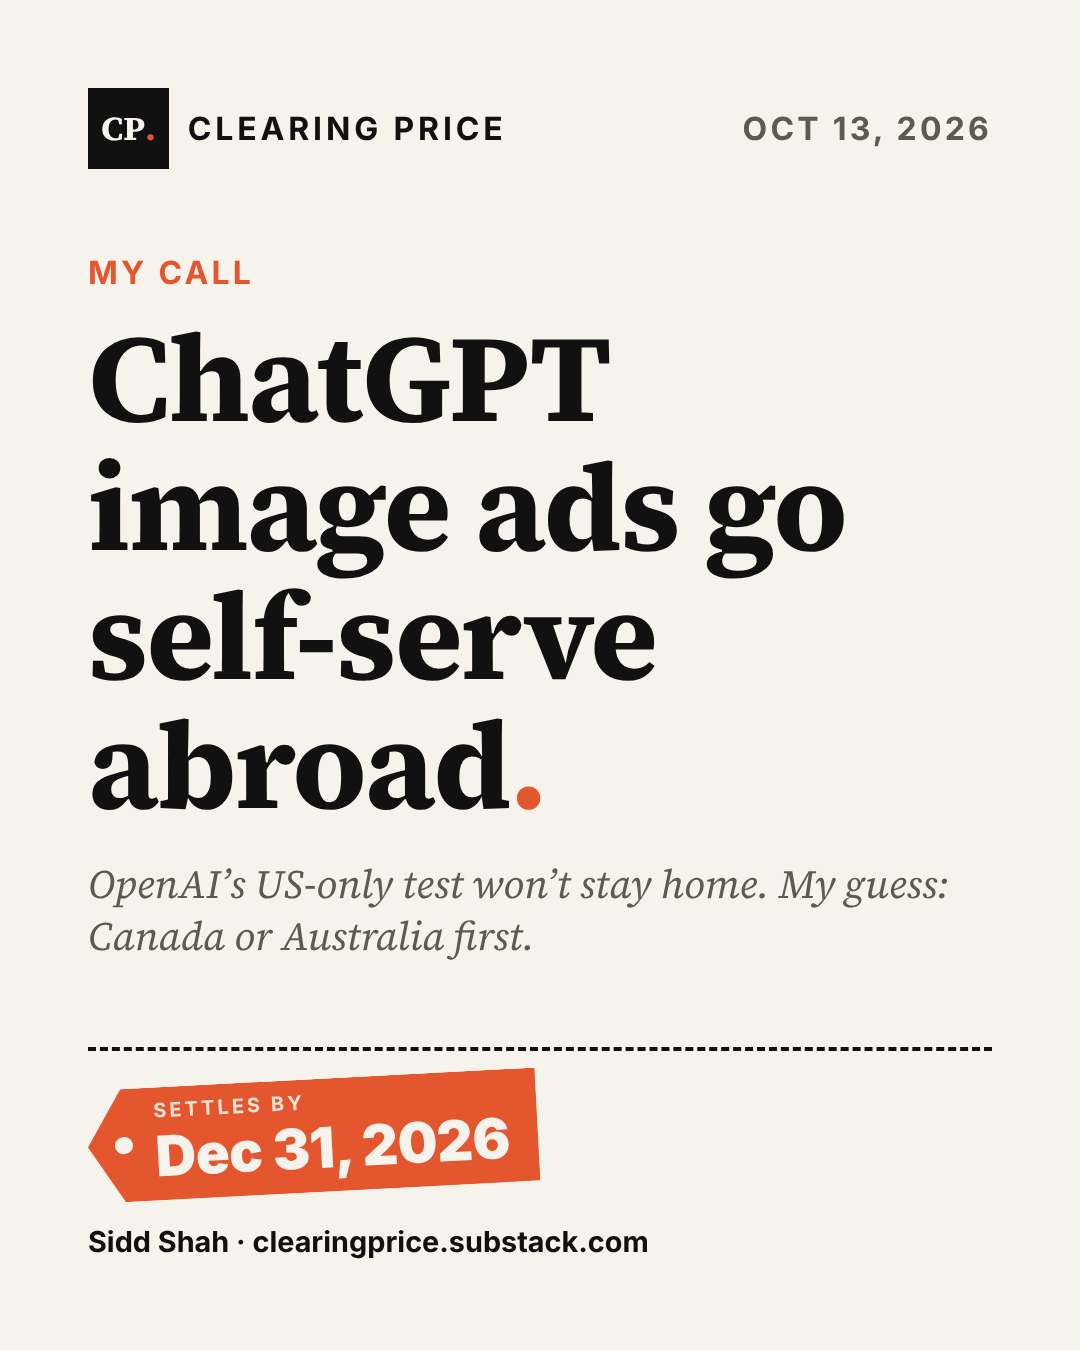
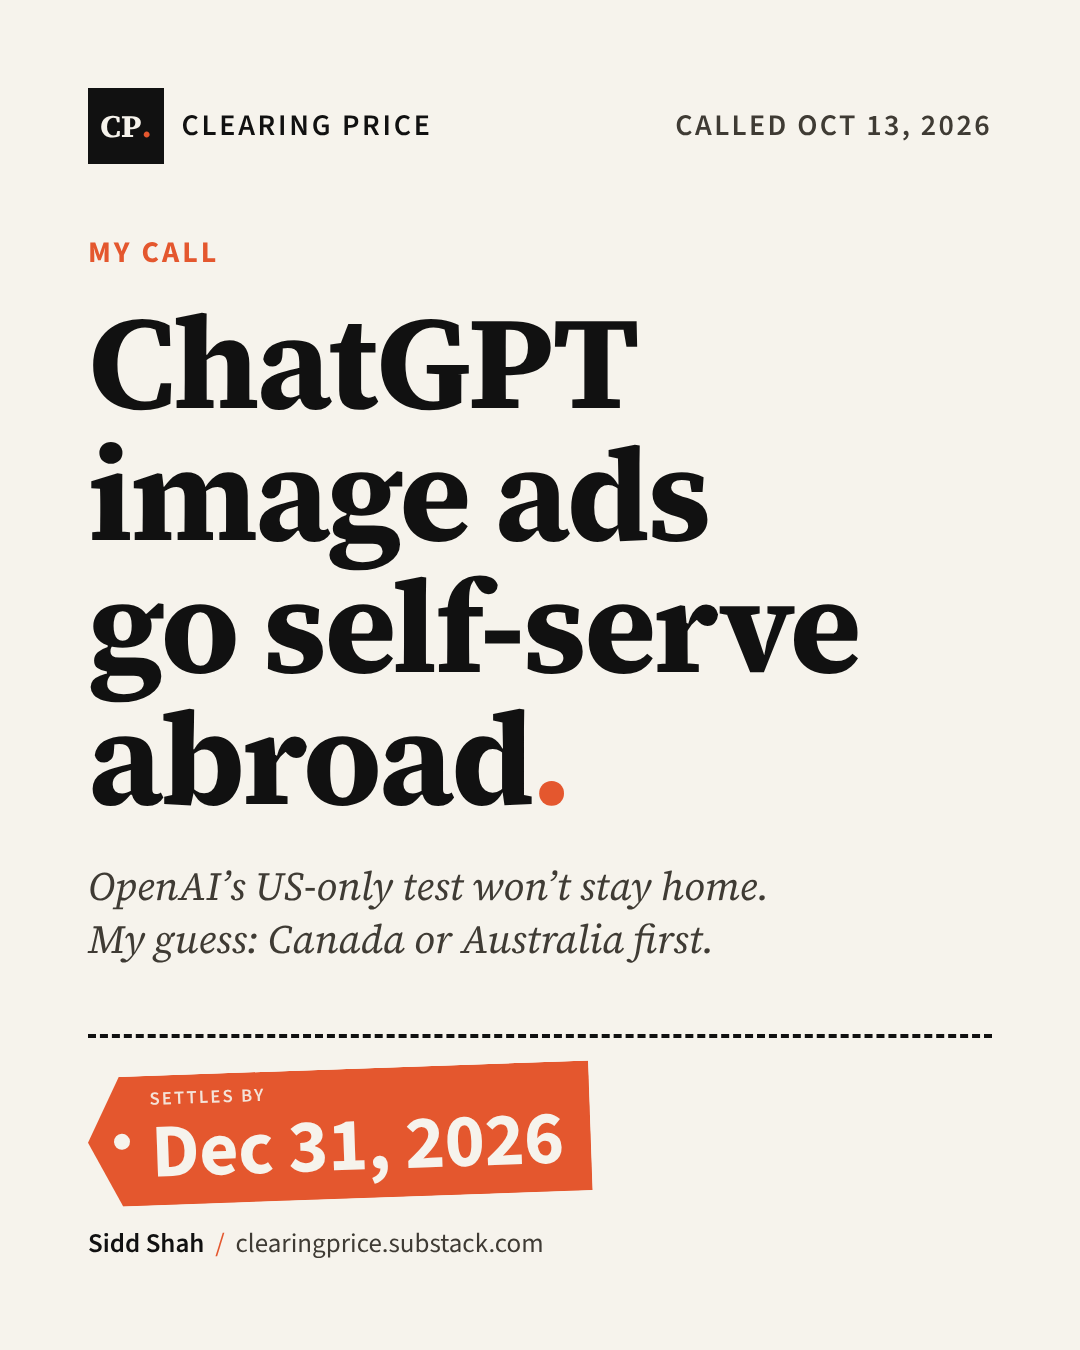
feat(clearing-price): lock v2 card template with auto-sized headlines
Merges the typography and controlled-UX design passes and steps the headline down for longer calls so it never overflows.

diff --git a/clearing-price/cards/card.html b/clearing-price/cards/card.html
@@ -1,37 +1,50 @@
 <!doctype html><html><head><meta charset="utf-8"><style>
 @font-face{font-family:SS4;src:url(fonts/source-serif-4-latin-700-normal.woff2);font-weight:700}
 @font-face{font-family:SS4;src:url(fonts/source-serif-4-latin-400-italic.woff2);font-style:italic;font-weight:400}
-:root{--ink:#111;--paper:#f6f3ec;--accent:#e4572e;--muted:#5f5a50}
+@font-face{font-family:SS3;src:url(fonts/source-sans-3-latin-400-normal.woff2);font-weight:400}
+@font-face{font-family:SS3;src:url(fonts/source-sans-3-latin-600-normal.woff2);font-weight:600}
+@font-face{font-family:SS3;src:url(fonts/source-sans-3-latin-700-normal.woff2);font-weight:700}
+:root{--ink:#111;--paper:#f6f3ec;--accent:#e4572e;--muted:#3f3b34}
 *{margin:0;box-sizing:border-box}
 body{font-feature-settings:"kern" 1,"liga" 1;text-rendering:optimizeLegibility;font-variant-numeric:lining-nums;width:var(--w);height:var(--h);background:var(--paper);color:var(--ink);font-family:SS4,serif;display:flex;flex-direction:column;padding:var(--pad);gap:var(--gap);overflow:hidden}
-.sans{font-family:"Helvetica Neue",Arial,"DejaVu Sans",sans-serif}
-.top{display:flex;justify-content:space-between;align-items:center;font-weight:700;font-size:var(--small);letter-spacing:.12em;text-transform:uppercase}
+.sans{font-family:SS3,"Helvetica Neue",Arial,sans-serif;font-feature-settings:"kern" 1,"liga" 1,"lnum" 1}
+.top{display:flex;justify-content:space-between;align-items:center;font-weight:600;font-size:var(--small);letter-spacing:.09em;text-transform:uppercase}
 .brand{display:flex;align-items:center;gap:.6em}
 .mark{font-family:SS4,serif;letter-spacing:0;background:var(--ink);color:var(--paper);width:2.4em;height:2.4em;display:flex;align-items:center;justify-content:center;font-size:1.05em;text-transform:none}
 .mark i{font-style:normal;color:var(--accent)}
 .top .stop{color:var(--accent)}
-.top .issue{color:var(--muted);letter-spacing:.1em}
-.main{flex:1;display:flex;flex-direction:column;justify-content:center}
-.kicker{font-weight:700;font-size:var(--small);color:var(--accent);letter-spacing:.1em;text-transform:uppercase;margin-bottom:.7em}
-h1{font-size:var(--big);line-height:1.04;font-weight:700;letter-spacing:-.015em}
+.top .issue{color:var(--muted);letter-spacing:.08em;font-variant-numeric:tabular-nums lining-nums}
+.top .issue::before{content:"Called "}
+.main{flex:1;min-height:0;display:flex;flex-direction:column;justify-content:center}
+.kicker{font-weight:700;font-size:var(--small);color:var(--accent);letter-spacing:.1em;text-transform:uppercase;margin-bottom:var(--kgap)}
+h1{font-size:var(--big);line-height:var(--lh);font-weight:700;letter-spacing:var(--trk);text-wrap:balance;hyphens:none}
+h1 .nb{white-space:nowrap}
 h1 .dot{color:var(--accent)}
-.sub{margin-top:.7em;font-size:var(--mid);color:var(--muted);font-style:italic;line-height:1.3}
+.sub{margin-top:var(--sgap);font-size:var(--mid);color:var(--muted);font-style:italic;line-height:1.34;max-width:var(--measure);text-wrap:balance;font-variant-numeric:oldstyle-nums proportional-nums;hyphens:none}
 .clears{border-top:4px dashed var(--ink);padding-top:var(--gap);display:flex;gap:.6em 1.5em;justify-content:space-between;align-items:flex-end;flex-wrap:wrap;font-weight:700;font-size:var(--small)}
 /* price tag: notched left edge + punched hole, slight hang */
-.tag{position:relative;background:var(--accent);color:var(--paper);padding:.45em .9em .5em 2.1em;transform:rotate(-3deg);transform-origin:left center;
+.tag{position:relative;background:var(--accent);color:var(--paper);padding:.45em .9em .5em 2.1em;transform:rotate(-2deg);transform-origin:left center;
  clip-path:polygon(1.1em 0,100% 0,100% 100%,1.1em 100%,0 50%);display:flex;flex-direction:column;line-height:1}
 .tag::before{content:"";position:absolute;left:.85em;top:50%;width:.55em;height:.55em;margin-top:-.275em;border-radius:50%;background:var(--paper)}
-.tag small{font-size:.62em;letter-spacing:.16em;text-transform:uppercase;opacity:.9;margin-bottom:.35em}
-.tag b{white-space:nowrap;font-size:1.75em;letter-spacing:-.01em}
-.url{font-size:.9em;text-align:right;line-height:1.35;white-space:nowrap}
+.tag small{font-size:.62em;font-weight:600;letter-spacing:.12em;text-transform:uppercase;opacity:.9;margin-bottom:.35em}
+.tag b{white-space:nowrap;font-size:var(--tagsz);letter-spacing:-.005em;font-weight:700;font-variant-numeric:lining-nums tabular-nums}
+.url{font-size:.9em;text-align:right;line-height:1.35;white-space:nowrap;font-weight:400;color:var(--muted)}
+.url b{font-weight:600;color:var(--ink)}
+.url .sep{padding:0 .4em;color:var(--accent)}
 </style></head><body>
 <div class="top sans"><span class="brand"><span class="mark">CP<i>.</i></span>Clearing Price</span><span class="issue" id="issue"></span></div>
 <div class="main"><div class="kicker sans" id="kicker"></div><h1 id="call"></h1><div class="sub" id="sub"></div></div>
 <div class="clears sans"><span class="tag"><small>Settles by</small><b id="date"></b></span><span class="url" id="by"></span></div>
 <script>
 const p=new URLSearchParams(location.search);const d=JSON.parse(p.get('d'));
-for(const k of ['issue','kicker','sub','date','by'])document.getElementById(k).textContent=d[k]||'';
-const h=document.getElementById('call'),c=(d.call||'').replace(/[.]\s*$/,'');h.textContent=c;const dot=document.createElement('span');dot.className='dot';dot.textContent='.';h.appendChild(dot);
-const s={tall:{w:1080,h:1350,pad:88,gap:40,small:32,mid:40,big:124},wide:{w:1200,h:627,pad:56,gap:20,small:22,mid:26,big:66}}[p.get('size')||'tall'];
+for(const k of ['issue','kicker','sub','date'])document.getElementById(k).textContent=d[k]||'';
+const by=document.getElementById('by'),bp=(d.by||'').split(/\s*·\s*/);if(bp.length>1){const b=document.createElement('b');b.textContent=bp[0];by.append(b);const sp=document.createElement('span');sp.className='sep';sp.textContent='/';by.append(sp,bp.slice(1).join(' · '))}else by.textContent=d.by||'';
+const h=document.getElementById('call'),c=(d.call||'').replace(/[.]\s*$/,'');c.split(/(\S*-\S*)/).forEach(t=>{if(!t)return;if(/-/.test(t)){const n=document.createElement('span');n.className='nb';n.textContent=t;h.append(n)}else h.append(t)});const dot=document.createElement('span');dot.className='dot';dot.textContent='.';h.appendChild(dot);
+const s={tall:{w:1080,h:1350,pad:88,gap:40,small:30,mid:40,big:132,tagsz:76,kgap:22,sgap:36,measure:820},wide:{w:1200,h:627,pad:56,gap:20,small:21,mid:26,big:70,tagsz:50,kgap:14,sgap:18,measure:1088}}[p.get('size')||'tall'];
 for(const[k,v]of Object.entries(s))document.documentElement.style.setProperty('--'+k,v+'px');
+const n=(d.call||'').length,steps=p.get('size')==='wide'?[70,60,52]:[132,112,96];
+s.big=n<=40?steps[0]:n<=70?steps[1]:steps[2];
+for(const[k,v]of Object.entries(s))document.documentElement.style.setProperty('--'+k,v+'px');
+const R=document.documentElement.style;R.setProperty('--lh',p.get('size')==='wide'?'1.06':'1.0');R.setProperty('--trk',p.get('size')==='wide'?'-.012em':'-.022em');
+const fit=()=>{const M=document.querySelector('.main');let g=0;while(M.scrollHeight>M.clientHeight+1&&s.big>40&&g++<30){s.big-=4;R.setProperty('--big',s.big+'px')}document.body.dataset.fit='1'};fit();document.fonts.ready.then(fit);
 </script></body></html>

diff --git a/clearing-price/cards/render.js b/clearing-price/cards/render.js
@@ -5,5 +5,5 @@ const b=await chromium.launch();
 for(const [size,w,h] of [['tall',1080,1350],['wide',1200,627]]){
  const pg=await b.newPage({viewport:{width:w,height:h}});
  await pg.goto('file://'+path.resolve(__dirname,'card.html')+'?size='+size+'&d='+encodeURIComponent(d));
- await pg.screenshot({path:`${out}-${size}.png`});}
+ await pg.evaluate(()=>document.fonts.ready);await pg.waitForTimeout(50);await pg.screenshot({path:`${out}-${size}.png`});}
 await b.close();})();

diff --git a/clearing-price/README.md b/clearing-price/README.md
@@ -14,7 +14,7 @@ NODE_PATH=$(npm root -g) node logo.js ../out/clearing-price-logo.png
 
 Data fields: `issue` (the date tag), `kicker`, `call`, `sub`, `date` (settle date on the price tag), `by`. Use curly apostrophes in the data.
 
-Brand: cream `F6F3EC`, orange `E4572E`, ink `111111`, Source Serif 4 (OFL, in `cards/fonts`). Design refreshes happen deliberately, once a quarter, not per issue.
+Brand: cream `F6F3EC`, orange `E4572E`, ink `111111`, Source Serif 4 and Source Sans 3 (OFL, in `cards/fonts`). Headline size steps down automatically for longer calls. Design refreshes happen deliberately, once a quarter, not per issue; v2 merged the typography and controlled-UX passes (bencium skills, Oct 13 2026).
 
 ## Issues
 
